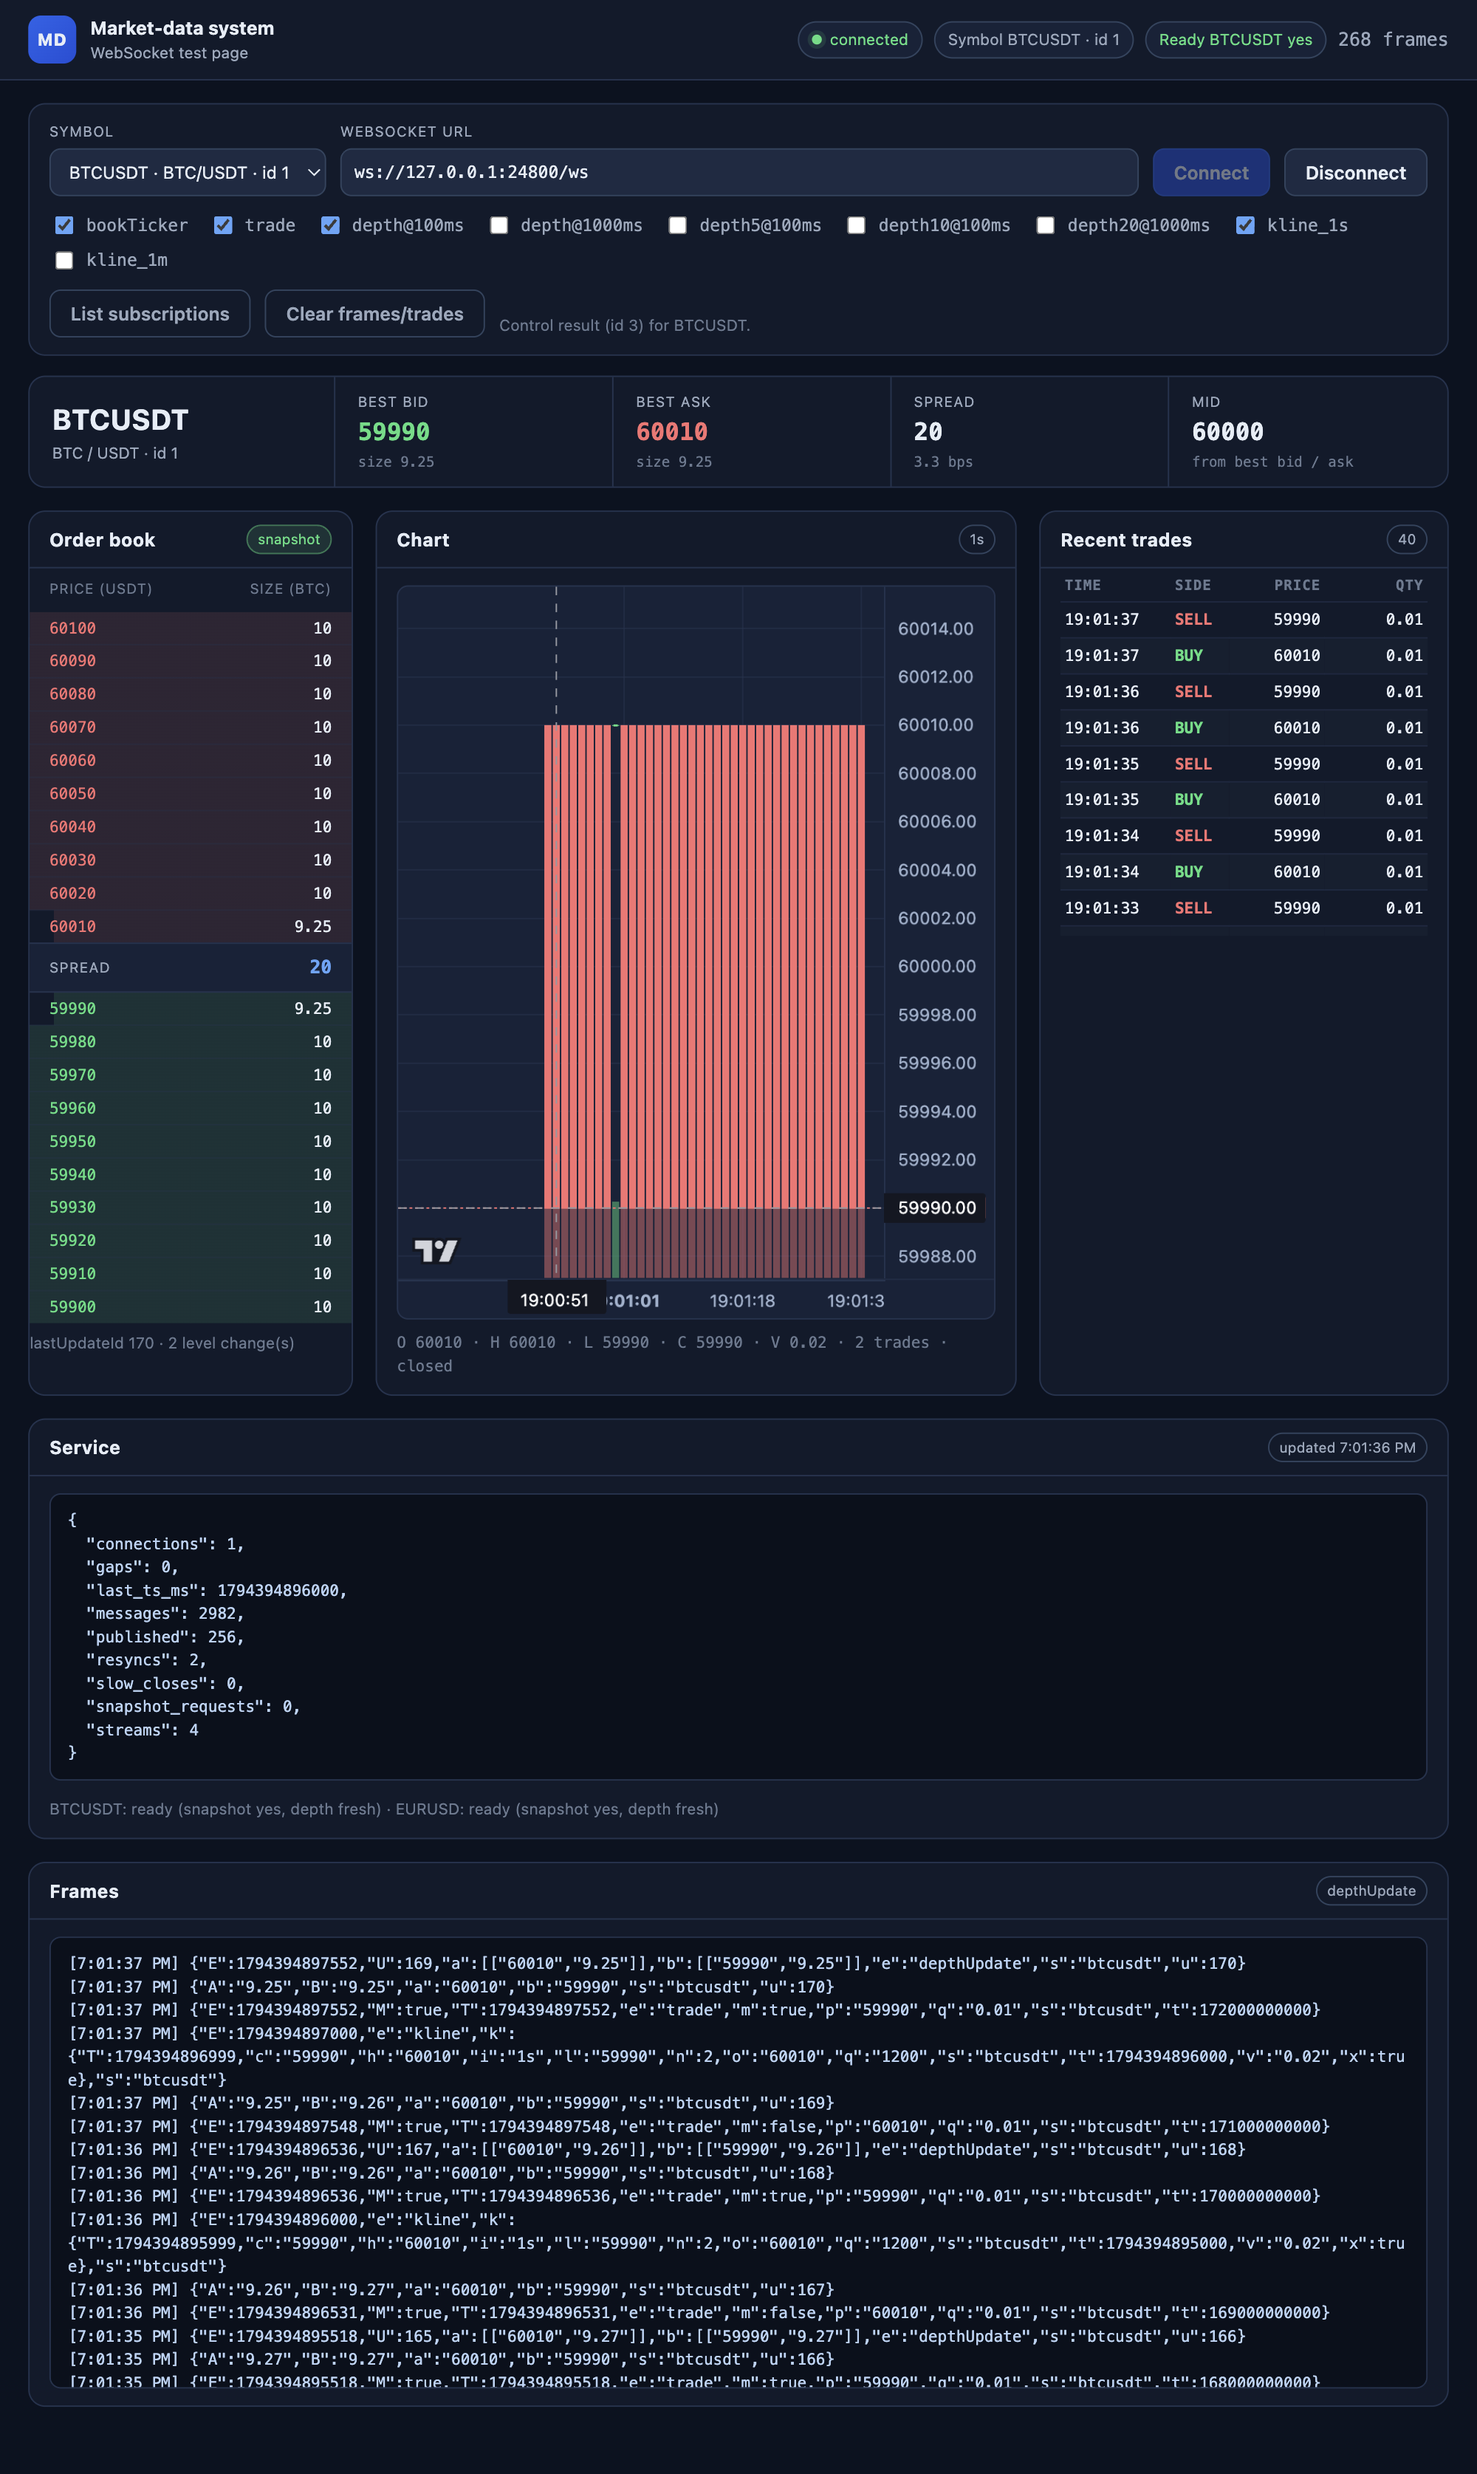
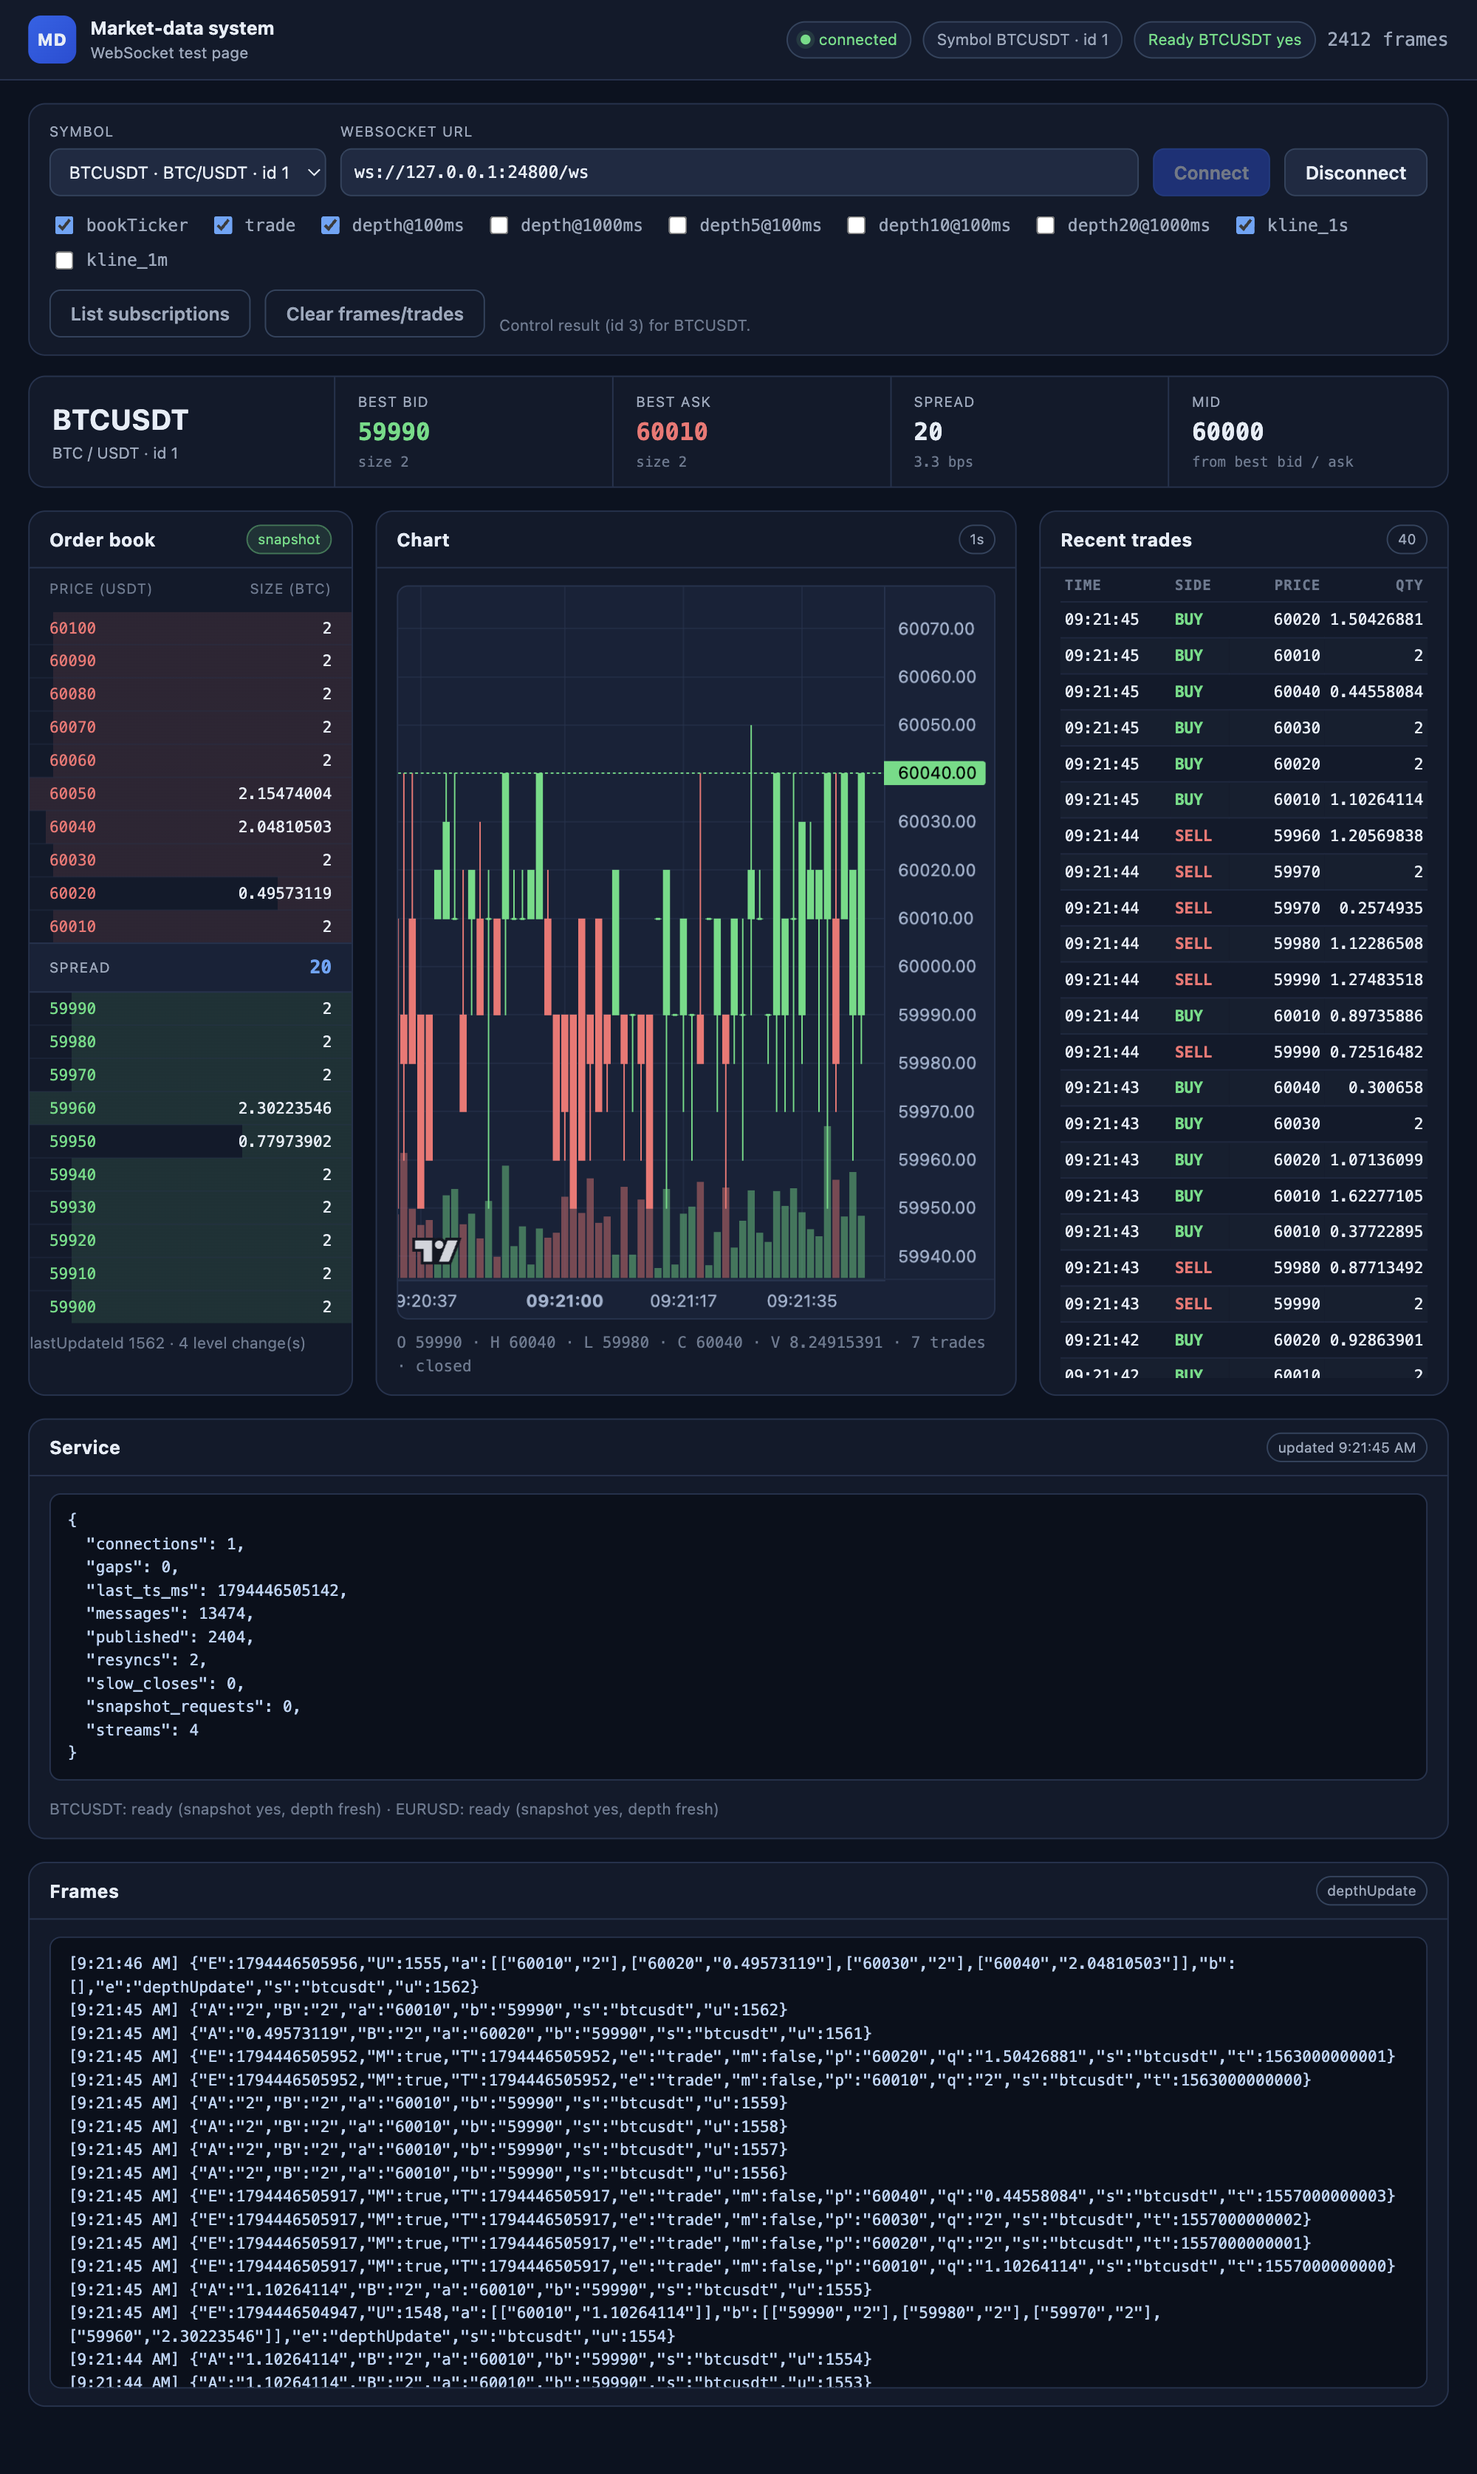
feat(market-data): livelier replay klines and full-height trade tape
- Send three marketable IOC orders per interval with a slow side-pressure wave;
  each walks 1-5 book levels with size-matched volume, so fills print across the
  ladder and 1s/1m klines get varied OHLC and volume.
- Replenish touched levels and restore any missing ladder level, with book sizes
  varying around the configured maker size instead of staying constant.
- Keep the replay cadence near one second by subtracting processing time.
- Let the recent-trades table fill and scroll inside the grid row (size
  containment plus removing the 260px wrapper cap).
- Refresh docs/market-data-system.png with the new chart and tape.

diff --git a/demos/market_data_system/web/app.css b/demos/market_data_system/web/app.css
@@ -169,7 +169,11 @@ h2 { font-size: 13px; margin: 0; letter-spacing: .02em; }
 .book-panel, .chart-panel, .trades-panel {
   display: flex;
   flex-direction: column;
+  min-height: 0;
 }
+/* Let the tape scroll inside the grid row instead of stretching the row to
+   fit all retained trades. */
+.trades-panel { contain: size; }
 
 /* Order book ladder */
 .book-columns {
@@ -238,7 +242,6 @@ td.num, th.num { text-align: right; }
 .trades .sell { color: var(--bad); }
 .trades-wrap { flex: 1 1 auto; min-height: 0; max-height: none; margin: 0 14px 12px; overflow: auto; }
 .trades thead th { position: sticky; top: 0; z-index: 1; background: var(--surface); }
-.table-wrap { max-height: 260px; overflow: auto; }
 
 /* Chart */
 .kline-chart {

diff --git a/demos/market_data_system/web/index.html b/demos/market_data_system/web/index.html
@@ -111,7 +111,7 @@
         <h2>Recent trades</h2>
         <span class="badge neutral" id="trade-count">0</span>
       </div>
-      <div class="table-wrap trades-wrap">
+      <div class="trades-wrap">
         <table class="trades">
           <thead><tr><th>Time</th><th>Side</th><th class="num">Price</th><th class="num">Qty</th></tr></thead>
           <tbody id="trades-body"></tbody>

diff --git a/scripts/replay-live-market.py b/scripts/replay-live-market.py
@@ -1,11 +1,12 @@
 #!/usr/bin/env python3
-"""Keep the demo market-data feeds alive with a fixed two-symbol book.
+"""Keep the demo market-data feeds alive with a two-symbol book.
 
 The market-data test page at http://127.0.0.1:24800/ shows live depth, BBO,
-trades and bars. This script seeds a small ladder on each side once, then sends
-one IOC buy and one IOC sell through the spread every interval and replenishes
-the best levels when they run low. Nothing is cancelled, so the shadow book has
-no stale levels and the page's book stays clean.
+trades and bars. This script seeds a ladder on each side once, then sends
+several marketable IOC orders per interval that walk up to a few levels. Sweep
+depth, size and side pressure vary, so the 1s/1m klines get real OHLC movement
+instead of printing the same two prices; touched levels are replenished and
+nothing is cancelled, so the shadow book stays clean.
 
 Usage:
     ./scripts/replay-live-market.py
@@ -18,31 +19,39 @@ The script only uses Python's standard library. It expects the two engines from
 
 import argparse
 import json
+import math
+import random
 import time
 import urllib.error
 import urllib.request
+
+RNG = random.Random()
 
 EUR = {
     "port": 24801,
     "symbol_id": 0,
     "decimals": 5,
+    "volume_decimals": 2,
     "bids": [f"{1.07990 - i * 0.00010:.5f}" for i in range(10)],
     "asks": [f"{1.08010 + i * 0.00010:.5f}" for i in range(10)],
-    "maker_volume": 100.0,
-    "taker_volume": 0.1,
-    "refill_below": 2.0,
+    "maker_volume": 20.0,
+    "refill_below": 4.0,
     "refill_volume": 20.0,
+    "sweep_levels": 5,
+    "trades_per_interval": 3,
 }
 BTC = {
     "port": 24802,
     "symbol_id": 1,
     "decimals": 2,
+    "volume_decimals": 8,
     "bids": [f"{59990.00 - i * 10:.2f}" for i in range(10)],
     "asks": [f"{60010.00 + i * 10:.2f}" for i in range(10)],
-    "maker_volume": 10.0,
-    "taker_volume": 0.01,
-    "refill_below": 0.2,
+    "maker_volume": 2.0,
+    "refill_below": 0.4,
     "refill_volume": 2.0,
+    "sweep_levels": 5,
+    "trades_per_interval": 3,
 }
 
 
@@ -94,11 +103,14 @@ def level_volume(levels, price):
 
 def ensure_book(spec, next_id):
     depth = read_depth(spec)
-    if depth.get("bids") or depth.get("asks"):
-        return
-    for side, prices in (("Buy", spec["bids"]), ("Sell", spec["asks"])):
+    for side, prices, levels in (
+        ("Buy", spec["bids"], depth.get("bids") or []),
+        ("Sell", spec["asks"], depth.get("asks") or []),
+    ):
+        present = {round(float(level["price"]), 8) for level in levels}
         for price in prices:
-            place(spec, side, price, spec["maker_volume"], next_id())
+            if round(float(price), 8) not in present:
+                place(spec, side, price, spec["maker_volume"], next_id())
 
 
 def replenish(spec, side, price, next_id):
@@ -108,17 +120,54 @@ def replenish(spec, side, price, next_id):
         place(spec, side, price, spec["refill_volume"], next_id())
 
 
-def replay_symbol(spec, next_id):
+def walk_volume(levels, spec):
+    """Volume that consumes the first levels and part of the last one."""
+    volume = sum(float(level["volume"]) for level in levels[:-1])
+    volume += float(levels[-1]["volume"]) * RNG.uniform(0.15, 0.95)
+    return round(max(volume, 0.01), spec["volume_decimals"])
+
+
+def replay_symbol(spec, next_id, bias):
     ensure_book(spec, next_id)
-    bid = spec["bids"][0]
-    ask = spec["asks"][0]
 
-    # Cross the fixed best levels; IOC orders leave no resting remainder.
-    place(spec, "Buy", ask, spec["taker_volume"], next_id(), tif="IOC")
-    place(spec, "Sell", bid, spec["taker_volume"], next_id(), tif="IOC")
+    for _ in range(spec["trades_per_interval"]):
+        depth = read_depth(spec)
+        bids = depth.get("bids") or []
+        asks = depth.get("asks") or []
+        if not bids or not asks:
+            ensure_book(spec, next_id)
+            depth = read_depth(spec)
+            bids = depth.get("bids") or []
+            asks = depth.get("asks") or []
+            if not bids or not asks:
+                continue
 
-    replenish(spec, "Buy", bid, next_id)
-    replenish(spec, "Sell", ask, next_id)
+        # Side pressure drifts with a slow wave, so the tape alternates
+        # between buy-dominated and sell-dominated runs.
+        buy = RNG.random() < 0.5 + bias
+        side = "Buy" if buy else "Sell"
+        levels = asks if buy else bids
+        max_levels = min(len(levels), spec["sweep_levels"])
+        weights = [max_levels - index for index in range(max_levels)]
+        count = RNG.choices(range(1, max_levels + 1), weights=weights, k=1)[0]
+        walked = levels[:count]
+        # The IOC limit sits at the deepest touched level so the order walks
+        # the book; the maker levels supply the trade prices.
+        place(
+            spec,
+            side,
+            walked[-1]["price"],
+            walk_volume(walked, spec),
+            next_id(),
+            tif="IOC",
+        )
+        maker_side = "Sell" if buy else "Buy"
+        for level in walked:
+            replenish(spec, maker_side, level["price"], next_id)
+
+    depth = read_depth(spec)
+    bid = depth["bids"][0]["price"] if depth.get("bids") else "—"
+    ask = depth["asks"][0]["price"] if depth.get("asks") else "—"
     return bid, ask
 
 
@@ -133,8 +182,10 @@ def main():
     )
     parser.add_argument("--skip-eur", action="store_true")
     parser.add_argument("--skip-btc", action="store_true")
+    parser.add_argument("--seed", type=int, default=7)
     args = parser.parse_args()
 
+    RNG.seed(args.seed)
     counter = [1000]
 
     def next_id():
@@ -145,18 +196,22 @@ def main():
     iteration = 0
     while args.iterations == 0 or iteration < args.iterations:
         iteration += 1
+        started = time.monotonic()
+        # Slow side-pressure wave: buy runs followed by sell runs.
+        bias = math.sin(iteration / 8.0) * 0.25
         try:
             parts = []
             if not args.skip_eur:
-                eur_bid, eur_ask = replay_symbol(EUR, next_id)
+                eur_bid, eur_ask = replay_symbol(EUR, next_id, bias)
                 parts.append(f"EURUSD {eur_bid}/{eur_ask}")
             if not args.skip_btc:
-                btc_bid, btc_ask = replay_symbol(BTC, next_id)
+                btc_bid, btc_ask = replay_symbol(BTC, next_id, bias)
                 parts.append(f"BTCUSDT {btc_bid}/{btc_ask}")
             print(f"[{iteration}] " + "  ".join(parts), flush=True)
         except (OSError, urllib.error.URLError, KeyError, ValueError) as error:
             print(f"[{iteration}] replay error: {error}", flush=True)
-        time.sleep(max(args.interval, 0.05))
+        elapsed = time.monotonic() - started
+        time.sleep(max(args.interval - elapsed, 0.05))
 
 
 if __name__ == "__main__":
